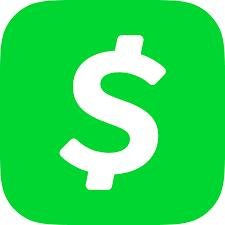
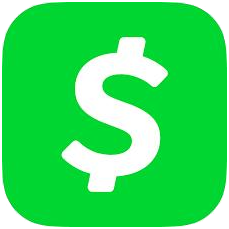
Make the Cash App sponsor mark transparent and align its label.
The white matte outside the rounded square is gone. The README button centers the logo with the label.

diff --git a/README.md b/README.md
@@ -16,10 +16,16 @@
   <img alt="Version 0.5.0" src="https://img.shields.io/badge/version-0.5.0-informational">
 </p>
 
-<p align="center">
-  <a href="https://cash.app/$autumndeveloper"><img src="sponsorship/cash-app.png" width="28" height="28" alt="Cash App"></a>
-  <a href="https://cash.app/$autumndeveloper"><b>Sponsor on Cash App</b></a>
-</p>
+<table align="center">
+  <tr>
+    <td valign="middle">
+      <a href="https://cash.app/$autumndeveloper"><img src="sponsorship/cash-app.png" width="24" height="24" alt="Cash App"></a>
+    </td>
+    <td valign="middle">
+      &nbsp;<a href="https://cash.app/$autumndeveloper"><b>Sponsor on Cash App</b></a>
+    </td>
+  </tr>
+</table>
 
 ---
 
